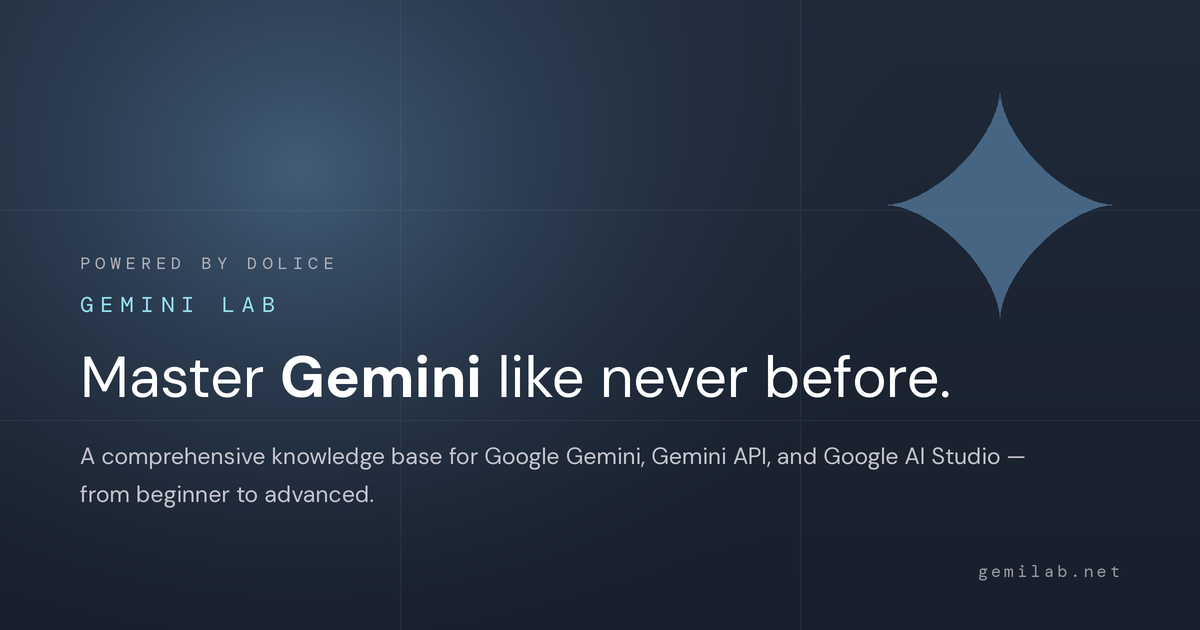
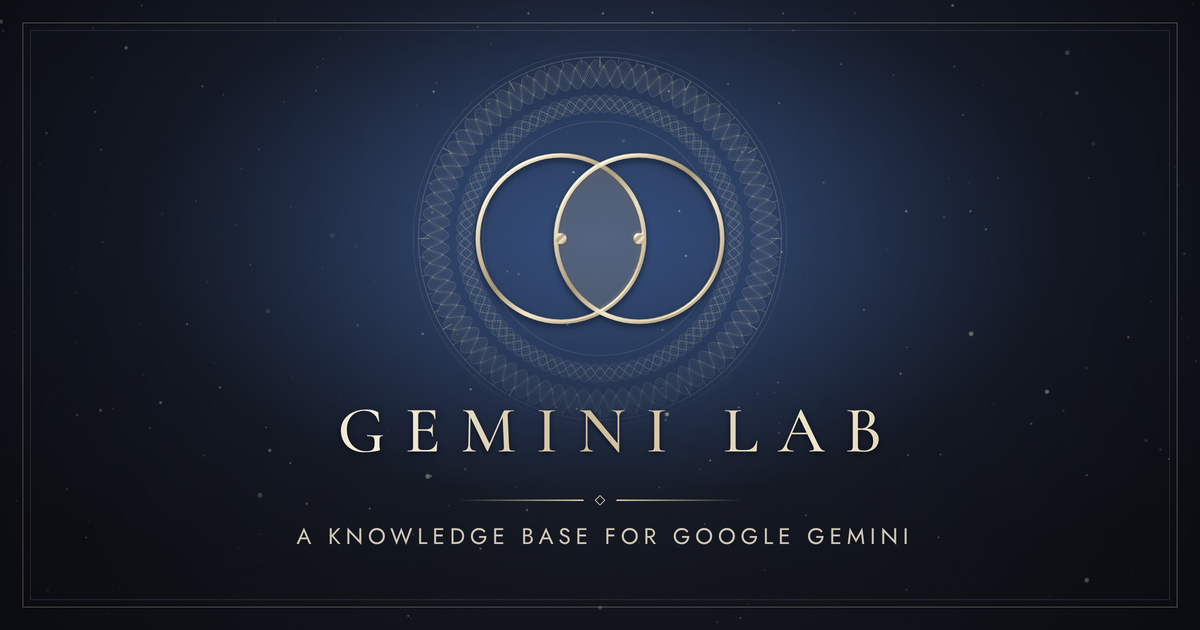
og: サイト共通 OGP を dolice.net の Labs カードと同じ意匠に差し替え（1200×630・日英）・?v=3 で SNS キャッシュ更新
Claude-Session: https://claude.ai/code/session_01HiCj6fCTc7KtopTq5qBR5S

diff --git a/src/lib/og.ts b/src/lib/og.ts
@@ -3,13 +3,16 @@ import ogArticles from "@/generated/og-articles.json";
 /**
  * OGP 画像（1200×630）。日英で別の画像を返す。
  * 旧 /og/default.png（1200×1200 正方形）は横長カードで下部の文字が切れるため 2026-10-23 に置き換え。
- * 画像は public/og/site-ja.png・site-en.png（生成元: Dolice Labs/_material/og/gen_site_og.py）。
+ * 画像は public/og/site-ja.png・site-en.png（2026-11-03 v3: dolice.net の Labs カードと同じ意匠・
+ * 生成元 Dolice Labs/_material/og/gen_site_og_v3.py）。画像を差し替えたら SITE_OG_VER を上げる（SNS のキャッシュ更新）。
  */
 export const OG_WIDTH = 1200;
 export const OG_HEIGHT = 630;
 
+export const SITE_OG_VER = "3";
+
 export function siteOgImage(locale: string): string {
-  return `https://gemilab.net/og/site-${locale === "ja" ? "ja" : "en"}.png`;
+  return `https://gemilab.net/og/site-${locale === "ja" ? "ja" : "en"}.png?v=${SITE_OG_VER}`;
 }
 
 /**

diff --git a/src/app/layout.tsx b/src/app/layout.tsx
@@ -27,7 +27,7 @@ export const metadata: Metadata = {
     description:
       "Google Gemini・Gemini API・Google AI Studio の初心者から上級者までを対象にした日本語ナレッジベース",
     url: "https://gemilab.net",
-    images: [{ url: "https://gemilab.net/og/site-ja.png", width: 1200, height: 630, alt: "Gemini Lab", type: "image/png" }],
+    images: [{ url: "https://gemilab.net/og/site-ja.png?v=3", width: 1200, height: 630, alt: "Gemini Lab", type: "image/png" }],
   },
   twitter: {
     card: "summary_large_image",

diff --git a/src/app/api/oembed/route.ts b/src/app/api/oembed/route.ts
@@ -2,7 +2,7 @@ import { NextRequest, NextResponse } from "next/server";
 
 const SITE_NAME = "Gemini Lab";
 const SITE_URL = "https://gemilab.net";
-const OG_IMAGE = `${SITE_URL}/og/site-ja.png`;
+const OG_IMAGE = `${SITE_URL}/og/site-ja.png?v=3`;
 
 export async function GET(request: NextRequest) {
   const url = request.nextUrl.searchParams.get("url");
